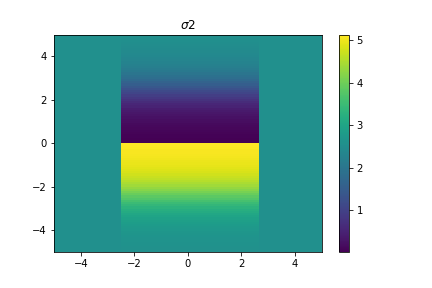
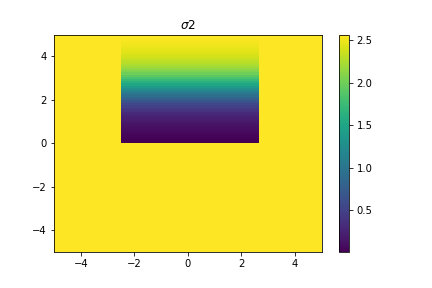
added capability to save BPS and plot BPS

diff --git a/Code/Solver/Solution_Viewer.py b/Code/Solver/Solution_Viewer.py
@@ -6,6 +6,7 @@ Author: Samuel Wong
 """
 import sys
 sys.path.append("../Tools")
+sys.path.append("../BPS_Package")
 import os
 import numpy as np
 import pickle
@@ -15,6 +16,8 @@ from Math import Superpotential
 from Grid import Standard_Dipole_Grid
 from Relaxation import Relaxation
 from Sigma_Critical import Sigma_Critical
+from plot_BPS import plot_BPS as external_plot_BPS
+from BPS import BPS
 
 class Solution_Viewer():
     """
@@ -51,6 +54,13 @@ class Solution_Viewer():
             self.bound_arg = core_dict["bound_arg"]
             self.charge_arg = core_dict["charge_arg"]
             self.folder_title = title
+            self.x0 = core_dict["x0"]
+            if self.x0 == "BPS":
+                self.top_BPS = core_dict["BPS_top"]
+                self.bottom_BPS = core_dict["BPS_bottom"]
+                self.y_half = core_dict["BPS_y"]
+                self.BPS_slice = core_dict["BPS_slice"]
+                self.initial_grid = core_dict["initial_grid"]
         else:
             raise Exception("Solution file does not exist.")
             
@@ -63,6 +73,10 @@ class Solution_Viewer():
         self.plot_potential_energy_density()
         self.plot_energy_density()
         self.store_energy()
+        if self.x0 == "BPS":
+            self.plot_initial_grid()
+            self.plot_BPS()
+            self.compare_slice_with_BPS()
             
     def print_attributes(self):
         print()
@@ -234,13 +248,33 @@ class Solution_Viewer():
         with open(self.folder_title+"core_dict","wb") as file:
             self.core_dict["energy"] = self.get_energy()
             pickle.dump(self.core_dict, file)
-        
     
     def plot_energy_density(self):
         self._quick_plot(self.get_energy_density(),
                          "Energy Density",
                          "Energy_Density",
                          cmap='jet')
+
+    def plot_BPS(self):
+        #a temporary BPS object whose boundary doesn't matter; only using its
+        #differential equation capability
+        B=BPS(N=self.N,vac0_vec=np.array([0]),vacf_vec=np.array([0]))
+        #the following only works if the boundary is x1
+        external_plot_BPS(N=self.N,z=self.y_half,f=self.top_BPS,B=B,h=self.h,
+                          folder=self.folder_title,vac0=self.bound_arg,
+                          vacf="x0",save_plot=True)
+        external_plot_BPS(N=self.N,z=self.y_half,f=self.bottom_BPS,B=B,h=self.h,
+                          folder=self.folder_title,vac0=self.charge_arg,
+                          vacf=self.bound_arg,save_plot=True)
+        
+    def plot_initial_grid(self):
+        for n in range(self.m):
+            phi_n = np.real(self.initial_grid[n,:,:])
+            sigma_n = np.imag(self.initial_grid[n,:,:])
+            self._quick_plot(phi_n,"initial phi_{}".format(str(n+1)),
+                             "initial_phi_{}".format(str(n+1)))
+            self._quick_plot(sigma_n,"initial sigma_{}".format(str(n+1)),
+                             "initial_sigma_{}".format(str(n+1)))
 
     def _quick_plot(self,field,title,file_title,cmap=None):
         plt.figure()
@@ -254,7 +288,7 @@ class Solution_Viewer():
         im = ax.pcolormesh(self.grid.zv,self.grid.yv,field)
         ax.set_title(title)
         fig.colorbar(im,ax=ax)
-
+        
     def _plot_laplacian_n(self,n,lap_num,lap_theo):
         #row= real & imag of fields; col= numeric vs theoretic
         fig, axs = plt.subplots(2, 2) 

diff --git a/Code/Solver/Relaxation.py b/Code/Solver/Relaxation.py
@@ -132,7 +132,8 @@ class Relaxation():
         if self.N == 2 and str(self.bound)== "x0":
             y_half,x_half = solve_BPS(N=self.N,vac0_arg=str(self.bound),
                                       vacf_arg="x1",z0=self.grid.y0,
-                                      zf=0,h=self.grid.h,tol=1e-5)
+                                      zf=0,h=self.grid.h,folder="",
+                                      tol=1e-5,save_plot=False)
             #need some numpy shape gymnastic here
             #BPS solution is stored in the form of (y,m), where the rows y
             #are the points, and the columns, m, are the fields
@@ -159,10 +160,12 @@ class Relaxation():
         elif self.N ==3 and str(self.bound) == "x1":
             y_half,x_top_half = solve_BPS(N=self.N,vac0_arg=str(self.bound),
                           vacf_arg="x0",z0=self.grid.y0,
-                          zf=0,h=self.grid.h,tol=1e-5)
+                          zf=0,h=self.grid.h,folder="",
+                          tol=1e-5,save_plot=False)
             y_half,x_bottom_half = solve_BPS(N=self.N,vac0_arg=str(self.charge),
                           vacf_arg=str(self.bound),z0=self.grid.y0,
-                          zf=0,h=self.grid.h,tol=1e-5)
+                          zf=0,h=self.grid.h,folder="",
+                          tol=1e-5,save_plot=False)
             x_top_half_trans = x_top_half.T
             x_bottom_half_trans = x_bottom_half.T
             half_num = x_top_half_trans.shape[1]
@@ -176,6 +179,12 @@ class Relaxation():
             for k in range(self.grid.num_z):
                 if self.grid.left_axis <= k <= self.grid.right_axis:
                     x0[:,:,k] = x_slice
+        #save BPS and initial grid
+        self.top_BPS = x_top_half
+        self.bottom_BPS = x_bottom_half
+        self.y_half = y_half
+        self.BPS_slice = x_slice
+        self.initial_grid = x0
         return x0
     
     def _apply_bound(self,x_old):

diff --git a/Code/Tools/Solver_Helpers.py b/Code/Tools/Solver_Helpers.py
@@ -21,6 +21,12 @@ def store_solution(relax,title,N,charge_arg,bound_arg,L,w,h,R,tol,max_loop,x0,
                   "w":w,"h":h,"R":R,"tol":tol,"max_loop":max_loop,"x0":x0,
                   "method":method,"loop":relax.loop,"field":relax.x,
                   "error":relax.error}
+    if x0 == "BPS":
+        core_dict["BPS_top"] = relax.top_BPS
+        core_dict["BPS_bottom"] = relax.bottom_BPS
+        core_dict["BPS_y"] = relax.y_half
+        core_dict["BPS_slice"] = relax.BPS_slice
+        core_dict["initial_grid"] = relax.initial_grid
     #create directory for new folder if it doesn't exist
     if not os.path.exists(title):
         os.makedirs(title)

diff --git a/Code/Solver/Solver_Full_Grid.py b/Code/Solver/Solver_Full_Grid.py
@@ -24,7 +24,7 @@ def Solver_Full_Grid(N,charge_arg,bound_arg,L,w,h,R,tol,max_loop,x0="BPS",
         charge = Sigma_Critical(N,charge_arg)
         bound = Sigma_Critical(N,bound_arg)
         grid = Standard_Dipole_Grid(L,w,h,R)
-        relax = Relaxation(grid,N,bound,charge,tol,max_loop,x0,diagnose,title)
+        relax = Relaxation(grid,N,bound,charge,tol,max_loop,x0,diagnose)
         relax.solve()
         store_solution(relax,title,N,charge_arg,bound_arg,L,w,h,R,tol,max_loop,
                        x0,"full grid")
